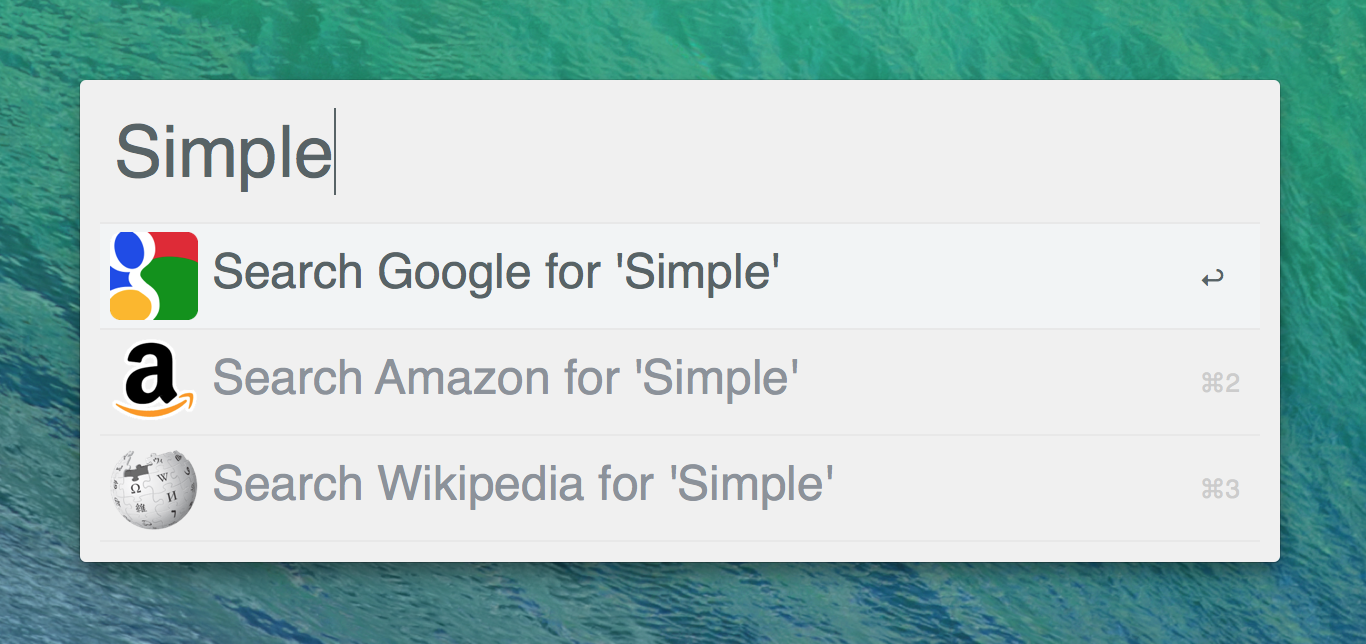
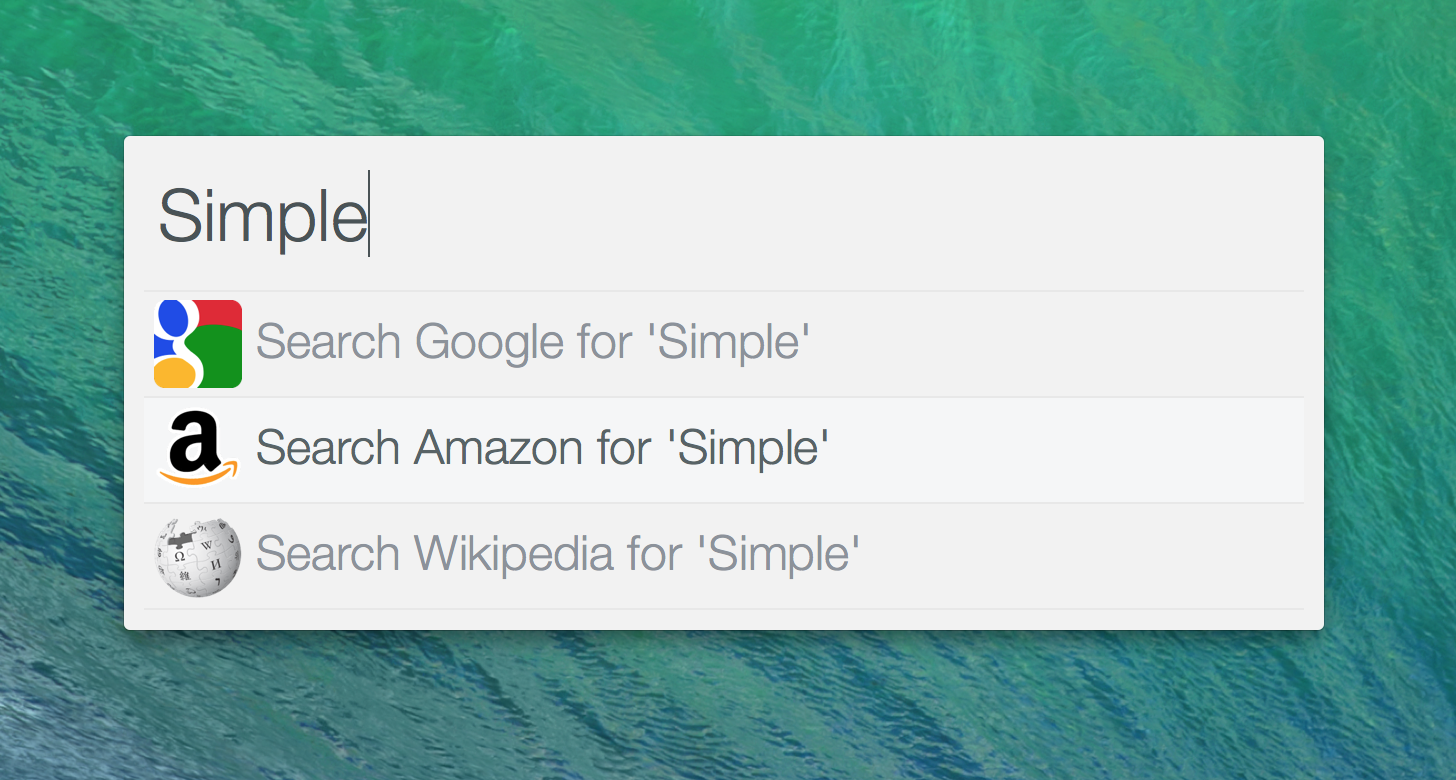
update screenshot and add screenshot of used options

diff --git a/readme.md b/readme.md
@@ -10,6 +10,13 @@
 [Download](https://github.com/sindresorhus/alfred-simple/raw/master/simple.alfredappearance), by right-clicking & "save as", then double-click the downloaded file.
 
 
+## Options
+
+Use the following options to have it look exactly like in the screenshot above.
+
+<img src="screenshot-options.png" width="463">
+
+
 ## License
 
 MIT © [Sindre Sorhus](http://sindresorhus.com)
